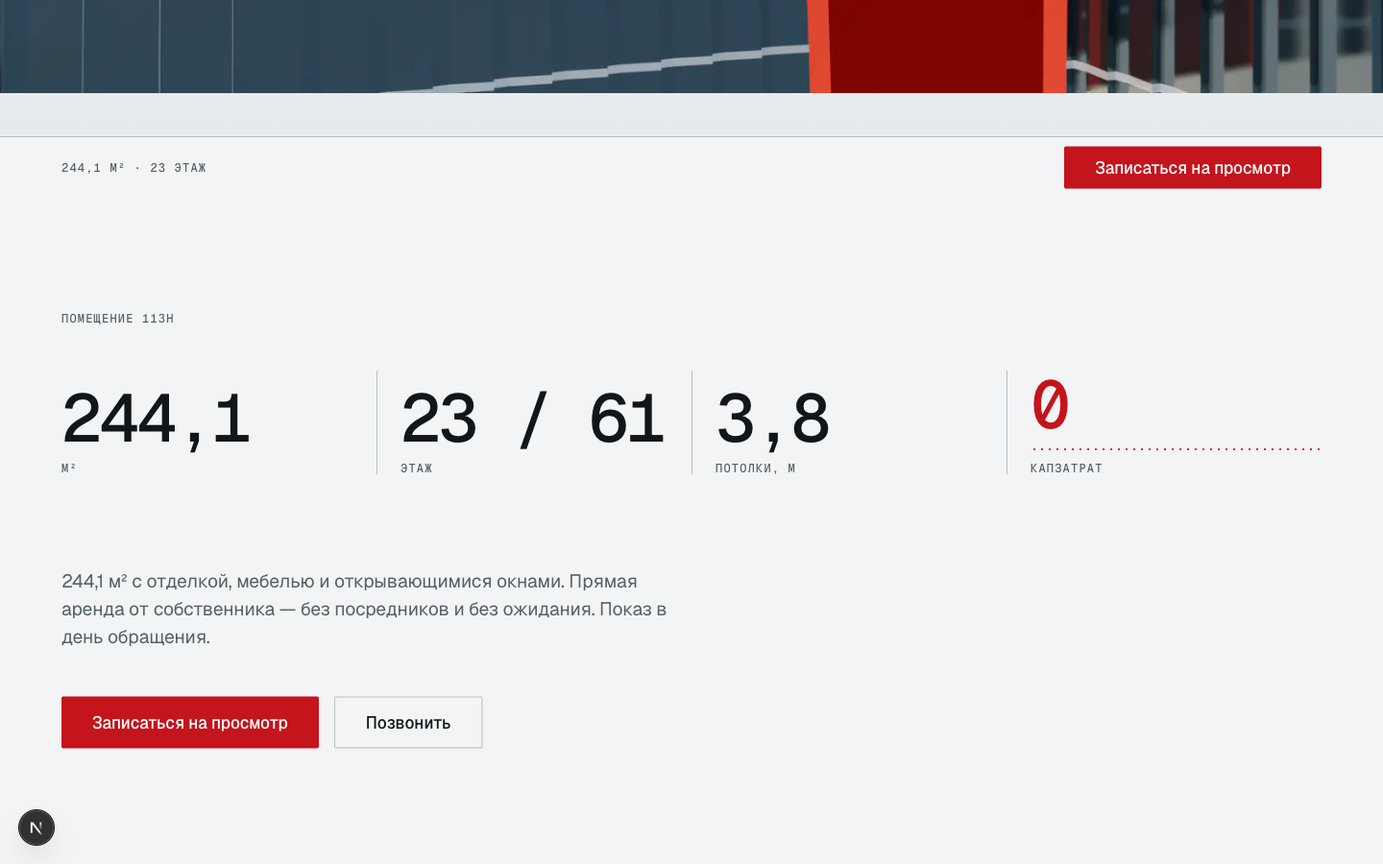
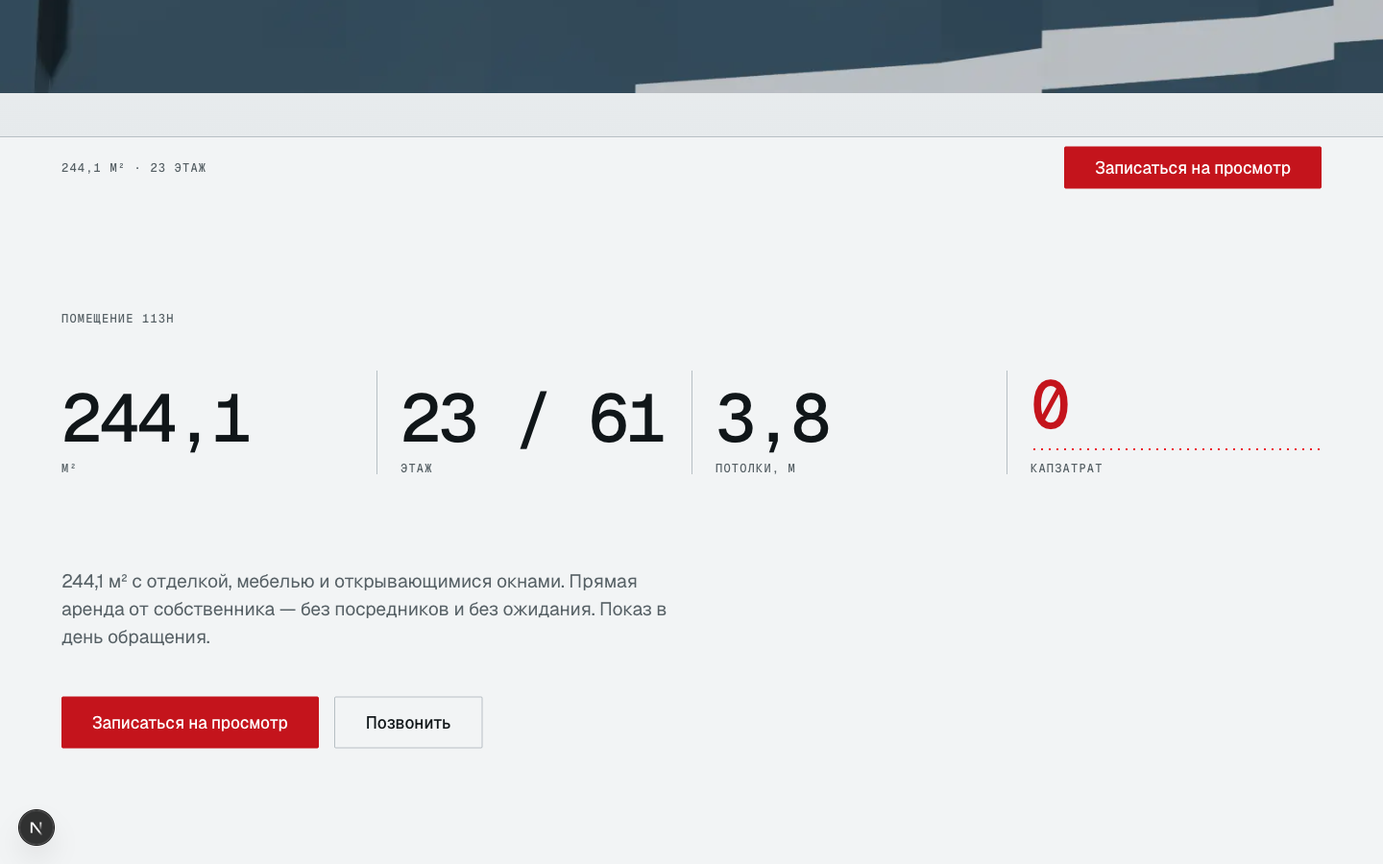
TowerSequence v5 + документация под скролльное управление
Плеер v5: симметричное окно ±16 кадров, освобождение в обе стороны,
инерция прогресса с коэффициентом, нормированным по времени кадра.
tsc --noEmit и eslint чистые, прод-сборка проходит.

ВАЖНО: заявленная правка обратного хода на десктопе НЕ РАБОТАЕТ.
Причина не в логике окна, а в release(): `img.src = ''` не делает src
пустым — пустая строка резолвится в URL документа, и `img.src` навсегда
остаётся истинным ("http://localhost:3000/"). Поэтому охранник
`if (img.src) return` в assign() больше никогда не пропускает этот
кадр, и освобождённый слот мёртв навсегда.

Замерено на 1440: проход вниз по 21 точке грузит все 150 кадров,
обратный проход не перезапрашивает НИ ОДНОГО кадра, 17 из 20 шагов
вверх показывают тот же кадр. Живым остаётся только последнее окно,
примерно с 89 % и выше. Снимок docs/screens/07-hero-1440-reverse.png
показывает ровно это: на 30 % прокрутки висит кадр из верхушки.

На 390 бага нет: MOBILE идёт с windowed: false, таймер окна не
запускается, release() не вызывается ни разу. Обратный проход по тем
же 21 точке — 0 замираний, кадры совпадают с прямым проходом.

Остальное на 1440 в норме: автопроход 3989 мс, отмена колесом
замораживает на месте (108 px из 2700), заголовок 1 → 0 к 14 %
с pointer-events: none, горизонтального скролла нет.

Документация приведена в соответствие со скролльным управлением:
- copy.md: подсказка героя заменена на кнопку и «или листайте вниз»
- design-system.md: компонент «Индикатор удержания» удалён; в списке
[…]

Changed region(s): [[0.2812, 0.0, 1.0, 0.1244], [0.0, 0.0, 0.0625, 0.0933]]

diff --git a/components/TowerSequence.tsx b/components/TowerSequence.tsx
@@ -2,26 +2,26 @@
 
 /* iCITY 113Н — экран 1. Герой и подъём вдоль башни.
    Путь в проекте: components/TowerSequence.tsx
-   Версия 4. Управление переведено с удержания на скролл — см. ИСТОРИЯ.
+   Версия 5. Скролл в обе стороны — см. ИСТОРИЯ.
 
    КАК УСТРОЕНО. Секция высокая: 100svh экрана плюс дистанция прокрутки.
-   Внутри — липкий блок с canvas на 100svh. Прогресс секвенции считается
-   из положения секции относительно вьюпорта. Листаешь — камера едет.
-   Долистал — секция кончилась, дальше обычная страница.
+   Внутри — липкий блок с canvas на 100svh. Прогресс считается из положения
+   секции относительно вьюпорта. Листаешь вниз — камера поднимается,
+   листаешь вверх — опускается. Долистал — секция кончилась.
 
    ПОЧЕМУ НЕ ScrollTrigger И НЕ ПИННИНГ. На свежих iOS адресная строка
    дёргает закреплённые секции, авторы GSAP считают это неустранимым.
-   Нативный position: sticky этой болезнью не страдает. ScrollTrigger
-   здесь просто не нужен: прогресс — это одно вычитание.
+   Нативный position: sticky этим не страдает. ScrollTrigger не нужен:
+   прогресс — это одно вычитание из getBoundingClientRect.
 
-   ПОЧЕМУ РАБОТАЕТ С LENIS. Позиция читается через getBoundingClientRect
-   в общем rAF. Lenis двигает нативный скролл, поэтому когда он появится
-   на других экранах, этот файл менять не придётся.
+   ПОЧЕМУ РАБОТАЕТ С LENIS. Позиция читается в общем rAF, Lenis двигает
+   нативный скролл. Когда он появится на других экранах, этот файл менять
+   не придётся. Сглаживание здесь и сглаживание Lenis не конфликтуют.
 
    ПАМЯТЬ. Декодированный кадр занимает ширина×высота×4 байта независимо
    от веса файла: 1600×900 = 5,76 МБ при файле в 30 КБ. Лимит canvas-памяти
    на iOS — от 224 МБ. Превышение не тормозит, а убивает вкладку.
-   Десктоп: окно вокруг плейхеда, резидентных около 40 кадров ≈ 230 МБ.
+   Десктоп: симметричное окно ±16, резидентных 33 кадра ≈ 190 МБ.
    Мобильный: 90 × 828×466×4 ≈ 132 МБ, держим целиком. */
 
 import { useCallback, useEffect, useRef, useState, useSyncExternalStore } from 'react';
@@ -40,12 +40,14 @@ const MOBILE: Variant = { dir: '/sequence/mobile', count: 90, width: 828, height
 
 const MOBILE_MAX_WIDTH = 828;
 
-const PRELOAD_AHEAD = 30;    // кадров впереди плейхеда
-const RELEASE_BEHIND = 10;   // кадров позади, дальше освобождаем
-const PRIME_FRAMES = 20;     // сплошной блок с начала, грузится сразу
+/* Окно симметричное: со скроллом плейхед ходит в обе стороны.
+   16 + 16 + 1 = 33 кадра резидентных, около 190 МБ на десктопе. */
+const WINDOW_RADIUS = 16;
+const PRIME_FRAMES = 20;      // сплошной блок с начала, грузится сразу
 
-const TEXT_FADE_END = 0.14;  // на этой доле прогресса заголовок исчезает полностью
-const TRAVEL_MS = 4200;      // столько едет автопроход по кнопке
+const SMOOTH_TAU = 90;        // постоянная времени сглаживания, мс
+const TEXT_FADE_END = 0.14;   // на этой доле прогресса заголовок исчезает
+const TRAVEL_MS = 4200;       // автопроход по кнопке
 
 const frameSrc = (v: Variant, i: number) =>
   `${v.dir}/f_${String(i + 1).padStart(4, '0')}.webp`;
@@ -55,7 +57,6 @@ const easeInOutCubic = (t: number) =>
 
 const clamp01 = (n: number) => (n < 0 ? 0 : n > 1 ? 1 : n);
 
-/* Системная настройка анимации — внешний источник, не состояние React */
 const MOTION_QUERY = '(prefers-reduced-motion: reduce)';
 const subscribeMotion = (onChange: () => void) => {
   const mq = window.matchMedia(MOTION_QUERY);
@@ -84,7 +85,9 @@ export default function TowerSequence({ onComplete }: { onComplete?: () => void 
   const imagesRef = useRef<HTMLImageElement[]>([]);
   const seenRef = useRef<Uint8Array>(new Uint8Array(0));
   const variantRef = useRef<Variant>(DESKTOP);
-  const progressRef = useRef(0);
+  const targetRef = useRef(0);        // прогресс по позиции скролла
+  const smoothRef = useRef(0);        // прогресс с инерцией, по нему и рисуем
+  const desiredIndexRef = useRef(0);  // какой кадр нужен прямо сейчас
   const lastDrawnRef = useRef(-1);
   const overlayShownRef = useRef(true);
   const rafRef = useRef(0);
@@ -160,8 +163,8 @@ export default function TowerSequence({ onComplete }: { onComplete?: () => void 
           setLoadedRatio(loadedOnce / v.count);
           if (loadedOnce >= PRIME_FRAMES) setPrimed(true);
         }
-        // кадр мог доехать позже, чем до него долистали
-        if (i === lastDrawnRef.current + 1 || i === lastDrawnRef.current) draw(i);
+        // кадр доехал позже, чем до него долистали — дорисовываем
+        if (i === desiredIndexRef.current) draw(i);
       };
       img.src = frameSrc(v, i);
     };
@@ -171,6 +174,8 @@ export default function TowerSequence({ onComplete }: { onComplete?: () => void 
       if (!img.src) return;
       img.onload = null;
       img.src = '';
+      seen[i] = 0;   // кадр снова придётся загрузить, если вернёмся
+      loadedOnce = Math.max(0, loadedOnce - 1);
     };
 
     // ПРАВИЛО 9: первый кадр с приоритетом и сразу на экран
@@ -193,23 +198,26 @@ export default function TowerSequence({ onComplete }: { onComplete?: () => void 
       draw(0);
 
       if (reduced) {
-        // ПРАВИЛО 10: статичный кадр, весь текст сохраняется
-        setPrimed(true);
+        setPrimed(true);   // ПРАВИЛО 10: статичный кадр, весь текст сохраняется
         return;
       }
 
-      const prime = v.windowed ? Math.min(PRIME_FRAMES + PRELOAD_AHEAD, v.count) : v.count;
+      const prime = v.windowed ? Math.min(PRIME_FRAMES + WINDOW_RADIUS, v.count) : v.count;
       for (let i = 1; i < prime; i += 1) assign(i);
     };
 
     void boot();
 
-    // ПРАВИЛО 8: окно живёт в собственном таймере, а НЕ в цикле отрисовки
+    /* ПРАВИЛО 8: окно живёт в собственном таймере, а НЕ в цикле отрисовки.
+       Окно симметричное — плейхед ходит в обе стороны. */
     if (v.windowed && !reduced) {
       timerRef.current = setInterval(() => {
-        const center = Math.round(progressRef.current * (v.count - 1));
-        for (let i = center; i <= center + PRELOAD_AHEAD; i += 1) assign(i);
-        for (let i = 0; i < center - RELEASE_BEHIND; i += 1) release(i);
+        const center = desiredIndexRef.current;
+        const lo = Math.max(0, center - WINDOW_RADIUS);
+        const hi = Math.min(v.count - 1, center + WINDOW_RADIUS);
+        for (let i = lo; i <= hi; i += 1) assign(i);
+        for (let i = 0; i < lo; i += 1) release(i);
+        for (let i = hi + 1; i < v.count; i += 1) release(i);
       }, 120);
     }
 
@@ -238,21 +246,36 @@ export default function TowerSequence({ onComplete }: { onComplete?: () => void 
     };
   }, [draw, resize, reduced]);
 
-  /* --- единственный rAF: читает скролл, рисует кадр ------------------- */
+  /* --- единственный rAF: читает скролл, сглаживает, рисует ------------ */
   useEffect(() => {
     if (reduced) return;
     const v = variantRef.current;
+    let prev = performance.now();
 
-    const tick = () => {
+    const tick = (now: number) => {
+      const dt = Math.min(now - prev, 50);
+      prev = now;
+
       const wrap = wrapRef.current;
       if (wrap) {
         const rect = wrap.getBoundingClientRect();
         const travel = rect.height - window.innerHeight;
-        const p = travel > 0 ? clamp01(-rect.top / travel) : 0;
-        progressRef.current = p;
+        targetRef.current = travel > 0 ? clamp01(-rect.top / travel) : 0;
+
+        /* Инерция. Без неё кадры дёргаются рывками по щелчкам колеса:
+           прогресс равен позиции скролла один в один. Коэффициент
+           нормирован по времени кадра, поэтому не зависит от частоты. */
+        const k = 1 - Math.exp(-dt / SMOOTH_TAU);
+        const diff = targetRef.current - smoothRef.current;
+        smoothRef.current = Math.abs(diff) < 0.0002
+          ? targetRef.current
+          : smoothRef.current + diff * k;
+
+        const p = smoothRef.current;
+        const index = Math.round(p * (v.count - 1));
+        desiredIndexRef.current = index;
 
         // ПРАВИЛО 2: drawImage только если индекс кадра сменился
-        const index = Math.round(p * (v.count - 1));
         if (index !== lastDrawnRef.current) draw(index);
 
         // заголовок уводим напрямую по стилю, без ре-рендера React
@@ -264,10 +287,11 @@ export default function TowerSequence({ onComplete }: { onComplete?: () => void 
           if (shown !== overlayShownRef.current) {
             overlayShownRef.current = shown;
             overlay.style.visibility = shown ? 'visible' : 'hidden';
+            overlay.style.pointerEvents = shown ? 'auto' : 'none';
           }
         }
 
-        if (p >= 0.999 && !doneRef.current) {
+        if (targetRef.current >= 0.999 && !doneRef.current) {
           doneRef.current = true;
           onComplete?.();
         }
@@ -311,7 +335,6 @@ export default function TowerSequence({ onComplete }: { onComplete?: () => void 
 
   useEffect(() => {
     if (!travelling) return;
-    // любое действие пользователя отменяет автопроход
     const off = () => cancelTravel();
     window.addEventListener('wheel', off, { passive: true });
     window.addEventListener('touchstart', off, { passive: true });
@@ -359,37 +382,28 @@ export default function TowerSequence({ onComplete }: { onComplete?: () => void 
 
 /* ИСТОРИЯ
 
-   v3 → v4. УДЕРЖАНИЕ УБРАНО, УПРАВЛЕНИЕ — СКРОЛЛ.
+   v4 → v5. СКРОЛЛ В ОБЕ СТОРОНЫ.
 
-   Жест удержания стоял на входе в сайт и был там ошибкой. Он взят из
-   quadplex80, но там работает потому, что это редкий момент внутри
-   обычной страницы. У нас он оказался первым, что видит человек:
-   незнакомый жест ровно в той точке, где трение стоит дороже всего.
-   Кто крутит колесо — не понимает, почему ничего не происходит.
+   Прогресс и в v4 считался от позиции секции, то есть назад он ходил.
+   Но вытеснение кадров осталось от версии с удержанием: всё позади
+   плейхеда освобождалось, и в комментарии стояло допущение «прогресс
+   монотонный, назад не ходит». Со скроллом оно перестало быть верным —
+   при прокрутке вверх кадры оказывались выгружены и картинка замирала
+   на последнем нарисованном. Окно теперь симметричное, ±16 кадров,
+   освобождается всё за его пределами в обе стороны. Резидентных 33.
 
-   Теперь: листаешь — камера едет. Кнопка «Подняться на 23 этаж» делает
-   тот же проход сама за 4,2 с и отменяется любым действием пользователя.
-   Заголовок живёт на первых кадрах и растворяется за первые 14 %
-   прокрутки — попутно исчезает проблема нечитаемого тёмного текста
-   на тёмном фасаде, ради которой пришлось бы двигать композицию.
+   Добавлена инерция прогресса. Без неё кадры шли рывками по щелчкам
+   колеса, потому что прогресс равнялся позиции скролла один в один.
+   Коэффициент сглаживания нормирован по времени кадра, поэтому ход
+   одинаков на 60 и на 120 Гц.
 
-   Пиннинга по-прежнему нет: высокая секция плюс нативный sticky.
-   ScrollTrigger не нужен — прогресс это одно вычитание из
-   getBoundingClientRect. Баг iOS с адресной строкой не воспроизводится,
-   потому что нечего закреплять.
-
-   Удержание остаётся ровно в одном месте на всём сайте — экран 3,
-   открывание окна. Там жест означает физическое действие.
-
-   Ушла и блокировка «пока не загрузилось — не листать». Скролл работает
-   сразу; если кадр ещё не доехал, на экране остаётся предыдущий и
-   дорисовывается по факту загрузки. Ждать пользователя не заставляем.
+   v3 → v4. Удержание заменено скроллом: жест стоял на входе в сайт
+   и был там ошибкой. Удержание осталось ровно в одном месте на всём
+   сайте — экран 3, открывание окна, где жест означает физическое действие.
 
    v2 → v3. setState в эффекте переписан на useSyncExternalStore.
 
-   v1 → v2. Дедлок разблокировки и отсутствие вытеснения кадров:
-   окно только назначало src и никогда не снимало, за полный проход
-   резидентными становились все 150 кадров, около 864 МБ.
+   v1 → v2. Дедлок разблокировки и полное отсутствие вытеснения кадров.
 
    Проверять на реальном iPhone обязательно. Ни один инструмент лимит
    canvas-памяти iOS не измеряет — только расчёт и живое устройство. */

diff --git a/AGENTS.md b/AGENTS.md
@@ -30,8 +30,8 @@ Tailwind отключён сознательно — система постро
 1. Все красные заливки идут на `--frit-deep`. Белый на чистом `--frit`
    даёт 4,4:1 — ниже AA. `--frit` живёт только в растре и линиях 1–2 px.
 2. Растр фритты — три плотности и ни одной между. Он появляется на стыках
-   секций, под крупными числами, в активной зоне плана и в индикаторе
-   удержания. Больше нигде.
+   секций, под крупными числами, в активной зоне плана и в полосе под
+   ключевым числом. Больше нигде.
 3. Радиусы 2 px на кнопках и полях, 0 везде остальном. Теней нет ни одной.
 
 Шрифты: Geist Sans для текста, **Geist Mono для всех чисел и микро-лейблов**.
@@ -75,9 +75,11 @@ U+202F, десятичная запятая: `244,1 м²`, `3,8 м`, `1 300 000 
 - ≤ 2,5 МБ до первого интерактивного экрана
 - Первый кадр ≤ 2,5 с
 
-Секвенция десктопа весит 4,6 МБ и является первым экраном, поэтому
-удержание разблокируется после 40 % буфера, остальное течёт впереди
-плейхеда. Мобильная секвенция 1,1 МБ укладывается в бюджет целиком.
+Секвенция десктопа весит 4,6 МБ и является первым экраном. Блокировки
+«пока не загрузилось — не листать» нет: скролл работает сразу, кадры
+текут окном вокруг плейхеда, а если кадр ещё не доехал, на экране
+остаётся предыдущий и дорисовывается по факту загрузки. Мобильная
+секвенция 1,1 МБ укладывается в бюджет целиком.
 
 Перед коммитом крупных изменений снимай трейс через Chrome DevTools MCP
 и сверяй с бюджетами. Это дешевле, чем ловить регрессию на показе.
@@ -88,7 +90,9 @@ U+202F, десятичная запятая: `244,1 м²`, `3,8 м`, `1 300 000 
 `--frit-deep` — 6,1:1. `--alu` никогда не несёт текст.
 Фокус виден всегда, `outline: none` без замены запрещён.
 Цели нажатия не меньше 44×44 px.
-Экран удержания работает с клавиатуры: Space и Enter.
+Управление первым экраном — скролл и нативная кнопка: клавиатура
+работает сама, отдельные обработчики не нужны. Удержание живёт только
+на экране с окном, там Space и Enter обязательны.
 Ветка `prefers-reduced-motion: reduce` — статичные кадры, весь текст
 и все числа сохраняются полностью.
 

diff --git a/docs/design-system.md b/docs/design-system.md
@@ -53,7 +53,7 @@
 
 Три плотности и ни одной между. Растр появляется: полосой на стыке секций,
 подложкой под крупными числами, заливкой активной зоны на плане,
-индикатором удержания. Больше нигде.
+полосой под ключевым числом. Больше нигде.
 
 На мобильном — только `--frit-mid`, мелкий растр на плотных экранах
 муарит и жрёт время отрисовки.
@@ -134,10 +134,6 @@ Focus — рамка `--frit-deep` 1 px и внешняя обводка 2 px `r
 Под четвёртым числом («0 капзатрат») — подложка `--frit-dense`
 высотой 6 px, единственное место, где растр стоит под текстом.
 
-**Индикатор удержания.** Вертикальная колонка точек `--frit-sparse`,
-загорающихся снизу вверх по прогрессу: незажжённые — `--alu`,
-зажжённые — `--frit`. Читается как заполняющийся фасад.
-
 **План 244 м².** Стены `--ink` 1,5 px, мебель `--alu` 0,5 px.
 Зоны без заливок; активная зона заливается `--frit-mid`.
 Никаких цветных зон — цвет на плане ровно один.
@@ -162,9 +158,9 @@ Focus — рамка `--frit-deep` 1 px и внешняя обводка 2 px `r
 `--frit-sparse` → `--frit-mid` за 620 мс при входе секции в вьюпорт.
 Реализовать сменой `background-size`, не перерисовкой.
 
-Жест удержания — параметры общие для всех вариантов: 120 мс захват,
-5,0 с полный проход, 900 мс торможение, автостарт 6,5 с на герое
-и 3,0 с на окне.
+Жест удержания остался только на экране с окном: 120 мс захват,
+5,0 с полный проход, 900 мс торможение, автостарт 3,0 с.
+На первом экране жеста нет — там скролл и кнопка.
 
 ---
 

diff --git a/docs/copy.md b/docs/copy.md
@@ -46,9 +46,9 @@ iCITY · SPACE TOWER · 23 ЭТАЖ
 Отделка PRIDEX и мебель уже внутри.
 ```
 
-**Подсказка у индикатора**
+**Кнопка и подсказка**
 ```
-Держите, чтобы подняться
+Подняться на 23 этаж        или листайте вниз
 ```
 
 **Состояние загрузки** — вместо подсказки, пока буфер меньше 40 %:
